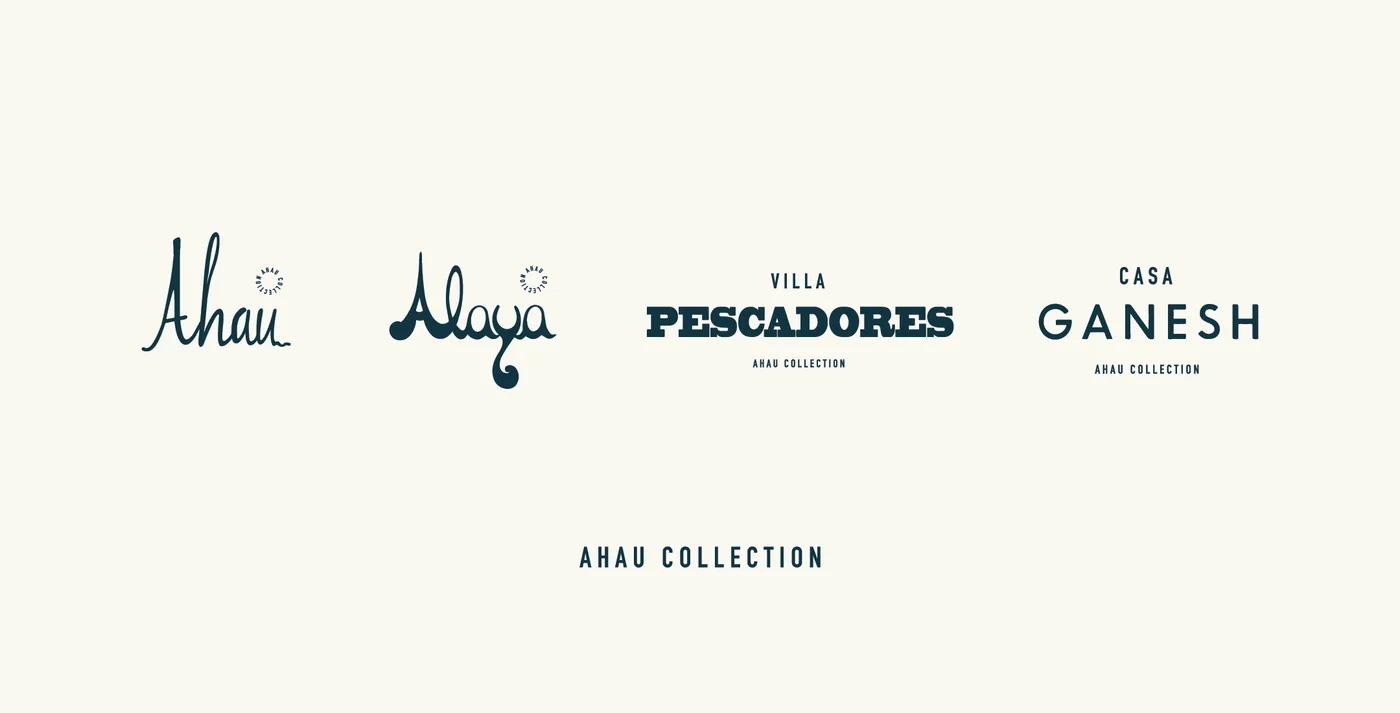
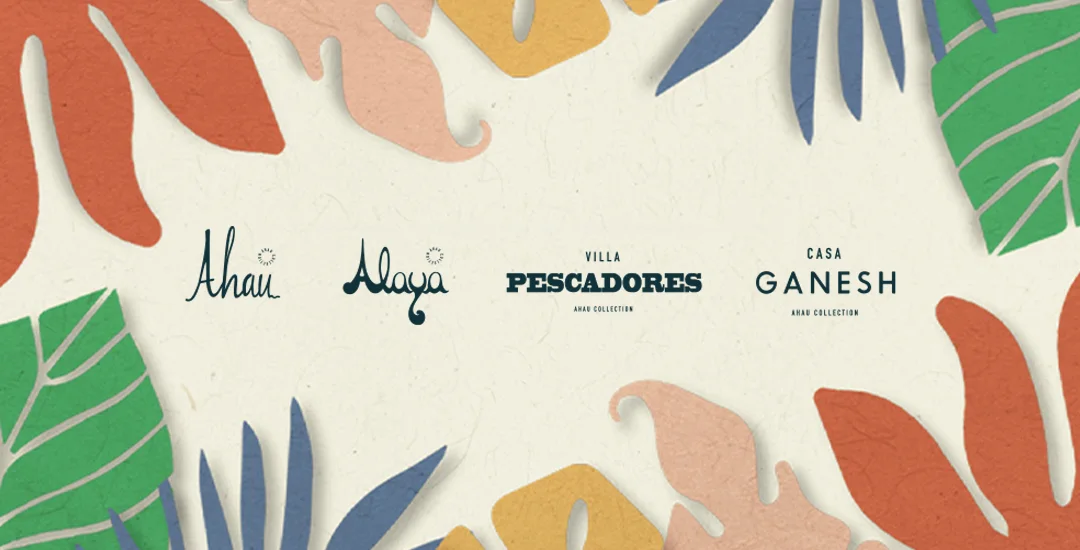
New Ahau and Shmokey images, La Reserva ad carousel EN/ES, K'in Kakaw in Also with square cards, mobile hero opens on the brain, no widows
Claude-Session: https://claude.ai/code/session_016uBSke5t6Q9r2gLAW2ANSA

diff --git a/src/work.js b/src/work.js
@@ -10,25 +10,34 @@ const ALL = [
     id: 'mr-shmokey',
     site: { k: { en: 'Instagram', es: 'Instagram' }, url: 'https://www.instagram.com/mr.shmokey/', text: '@mr.shmokey' },
     name: 'Mr. Shmokey',
-    line: { en: 'Signage that stops the street.', es: 'Letreros que detienen a la calle.' },
-    cover: { src: '/work/cover-shmokey.webp', alt: { en: 'The Mr. Shmokey logo above the coffee board', es: 'El logo de Mr. Shmokey sobre el menú de café' } },
+    line: { en: 'Burgers, signs and menus that stop the street.', es: 'Hamburguesas, letreros y menús que detienen la calle.' },
+    cover: { src: '/work/cover-shmokey.webp', alt: { en: 'The Mr. Shmokey Smokehouse logo over three burgers on a yellow logo pattern', es: 'El logo de Mr. Shmokey Smokehouse sobre tres hamburguesas y un patrón de logos amarillo' } },
     intro: {
-      en: 'Smokehouse and coffee bar in Tulum. The light boxes out front and the coffee board over the counter.',
-      es: 'Smokehouse y coffee bar en Tulum. Las cajas de luz de la entrada y el menú de café sobre la barra.',
+      en: 'Smokehouse and coffee bar in Tulum. The logo, the food photography and the light box menus over the counter.',
+      es: 'Smokehouse y coffee bar en Tulum. El logo, la fotografía de comida y los menús de caja de luz sobre la barra.',
     },
     facts: [
       { k: { en: 'Client', es: 'Cliente' }, v: { en: 'Mr. Shmokey', es: 'Mr. Shmokey' } },
       { k: { en: 'Place', es: 'Lugar' }, v: { en: 'Tulum', es: 'Tulum' } },
-      { k: { en: 'Made', es: 'Hice' }, v: { en: 'Light boxes, street signs and the coffee board', es: 'Cajas de luz, letreros y el menú de café' } },
+      { k: { en: 'Made', es: 'Hice' }, v: { en: 'Logo, food photography, light box and printed menus', es: 'Logo, fotografía de comida, menús de caja de luz e impresos' } },
     ],
     sections: [
       {
-        title: { en: 'The light boxes', es: 'Las cajas de luz' },
-        images: [{ src: '/work/shmokey-lightbox.webp', w: 1800, h: 398, alt: { en: 'Light box with the Mr. Shmokey logo', es: 'Caja de luz con el logo de Mr. Shmokey' } }],
+        images: [{ src: '/work/shmokey-logo-board.webp', w: 1400, h: 713, alt: { en: 'The Mr. Shmokey Smokehouse logo on its logo pattern', es: 'El logo de Mr. Shmokey Smokehouse sobre su patrón de logos' } }],
       },
       {
-        title: { en: 'The coffee board', es: 'El menú de café' },
-        images: [{ src: '/work/shmokey-coffee-board.webp', w: 1800, h: 348, alt: { en: 'Coffee menu board: cold coffees, freddo, iced latte and the classics', es: 'Menú de café: cafés fríos, freddo, iced latte y los clásicos' } }],
+        title: { en: 'The burgers', es: 'Las hamburguesas' },
+        text: { en: 'Two burgers on the logo pattern.', es: 'Dos hamburguesas sobre el patrón del logo.' },
+        cols: 2,
+        images: [
+          { src: '/work/shmokey-burger-1.webp', w: 1000, h: 1000, alt: { en: 'A cheese burger on the Mr. Shmokey logo pattern', es: 'Una hamburguesa con queso sobre el patrón del logo de Mr. Shmokey' } },
+          { src: '/work/shmokey-burger-2.webp', w: 1000, h: 1000, alt: { en: 'A second burger with cheese and onions on the Mr. Shmokey logo pattern', es: 'Otra hamburguesa con queso y cebolla sobre el patrón del logo de Mr. Shmokey' } },
+        ],
+      },
+      {
+        title: { en: 'The menus', es: 'Los menús' },
+        text: { en: 'Light box menus over the counter and printed menus along the bar.', es: 'Menús de caja de luz sobre la barra y menús impresos a lo largo del mostrador.' },
+        images: [{ src: '/work/shmokey-storefront.webp', w: 1800, h: 917, alt: { en: 'The Mr. Shmokey counter at night with the lit menus above and printed menus below', es: 'La barra de Mr. Shmokey de noche con los menús iluminados arriba y los impresos abajo' } }],
       },
     ],
   },
@@ -81,8 +90,8 @@ const ALL = [
     sections: [
       {
         title: { en: 'The system', es: 'El sistema' },
-        text: { en: 'One wordmark over four hotels: Ahau, Alaya, Villa Pescadores and Casa Ganesh.', es: 'Un solo logo sobre cuatro hoteles: Ahau, Alaya, Villa Pescadores y Casa Ganesh.' },
-        images: [{ src: '/work/ahau-brand.webp', w: 1400, h: 713, alt: { en: 'The Ahau Collection wordmark below the logos of Ahau, Alaya, Villa Pescadores and Casa Ganesh', es: 'El logo de Ahau Collection bajo los de Ahau, Alaya, Villa Pescadores y Casa Ganesh' } }],
+        text: { en: 'Four hotels, one family: Ahau, Alaya, Villa Pescadores and Casa\u00a0Ganesh.', es: 'Cuatro hoteles, una familia: Ahau, Alaya, Villa Pescadores y Casa\u00a0Ganesh.' },
+        images: [{ src: '/work/ahau-brand.webp', w: 1080, h: 550, alt: { en: 'The logos of Ahau, Alaya, Villa Pescadores and Casa Ganesh framed by paper-cut leaves', es: 'Los logos de Ahau, Alaya, Villa Pescadores y Casa Ganesh entre hojas de papel recortado' } }],
       },
       {
         title: { en: 'Stories', es: 'Stories' },
@@ -118,6 +127,22 @@ const ALL = [
       },
       {
         title: { en: 'Meta ads', es: 'Anuncios en Meta' },
+        text: { en: 'A five-card carousel for buyers, from the AD México feature to a WhatsApp chat with the sales director.', es: 'Un carrusel de cinco tarjetas para compradores, del reportaje en AD México a un chat de WhatsApp con el director de ventas.' },
+        carousel: {
+          w: 864,
+          h: 1080,
+          slides: [1, 2, 3, 4, 5].map((n) => ({ en: `/work/la-reserva-ad-en-${n}.webp`, es: `/work/la-reserva-ad-es-${n}.webp` })),
+          alts: [
+            { en: 'Card 1: Architectural Digest México called it a refuge, call it home', es: 'Tarjeta 1: Architectural Digest México lo llamó un refugio' },
+            { en: 'Card 2: a collection of 42 residences with the jungle in between', es: 'Tarjeta 2: una colección de 42 residencias con la selva en medio' },
+            { en: 'Card 3: designed by Co-Lab to let the jungle in', es: 'Tarjeta 3: diseñado por Co-Lab para dejar entrar la selva' },
+            { en: 'Card 4: stay before you buy', es: 'Tarjeta 4: quédese antes de comprar' },
+            { en: 'Card 5: Ben, the sales director, with a WhatsApp button', es: 'Tarjeta 5: Ben, el director de ventas, con un botón de WhatsApp' },
+          ],
+        },
+      },
+      {
+        title: { en: 'Referral ads', es: 'Anuncios de referidos' },
         text: { en: 'Ads for the broker referral program.', es: 'Anuncios del programa de referidos para brokers.' },
         images: [{ src: '/work/la-reserva-ads.webp', w: 2056, h: 720, alt: { en: 'Three Meta ads for the La Reserva referral program', es: 'Tres anuncios en Meta del programa de referidos de La Reserva' } }],
       },
@@ -137,7 +162,8 @@ const ALL = [
 export const WORK = ['ahau-collection', 'la-reserva', 'mare', 'mr-shmokey'].map((id) => ALL.find((w) => w.id === id))
 
 export const ALSO = [
-  { src: '/work/petrodex-43.webp', name: 'Petrodex', place: { en: 'Dubai', es: 'Dubái' }, text: { en: 'Investor company profile, printed in A5 and A4.', es: 'Perfil para inversionistas, impreso en A5 y A4.' } },
-  { src: '/work/water-toys-43.webp', name: 'Water Toys Center', place: { en: 'Cannes, Monaco', es: 'Cannes, Mónaco' }, text: { en: 'Boat show backdrops and banners.', es: 'Fondos y banners para salones náuticos.' } },
-  { src: '/work/carmel-43.webp', name: 'Carmel', place: { en: 'Mexico', es: 'México' }, text: { en: 'Press kit for a French music producer and DJ.', es: 'Press kit para un productor musical y DJ francés.' } },
+  { src: '/work/kin-kakaw-11.webp', name: "K'in Kakaw", text: { en: 'Logo for a cacao brand.', es: 'Logo para una marca de cacao.' } },
+  { src: '/work/petrodex-11.webp', name: 'Petrodex', place: { en: 'Dubai', es: 'Dubái' }, text: { en: 'Investor company profile, printed in A5 and A4.', es: 'Perfil para inversionistas, impreso en A5 y A4.' } },
+  { src: '/work/water-toys-11.webp', name: 'Water Toys Center', place: { en: 'Cannes, Monaco', es: 'Cannes, Mónaco' }, text: { en: 'Boat show backdrops and banners.', es: 'Fondos y banners para salones náuticos.' } },
+  { src: '/work/carmel-11.webp', name: 'Carmel', place: { en: 'Mexico', es: 'México' }, text: { en: 'Press kit for a French music producer and DJ.', es: 'Press kit para un productor musical y DJ francés.' } },
 ]

diff --git a/src/index.css b/src/index.css
@@ -17,7 +17,8 @@ h1,h2,h3,p,ol,ul{margin:0}
 ol,ul{padding:0;list-style:none}
 h1,h2{font-family:var(--mono);font-weight:400;letter-spacing:-.03em;text-wrap:balance}
 h3{font-weight:400}
-p{text-wrap:pretty}
+p,li,dd,span,figcaption{text-wrap:pretty}
+.step p,.wc .ln,.also-tx,.wp-line,.wp-sec-hd p,.facts dd,.walk p,.hero-sub,.next-ln,.walk h2,h3{text-wrap:balance}
 :focus-visible{outline:2px solid var(--cyan);outline-offset:3px}
 .wrap{max-width:1280px;margin:0 auto;padding-left:max(16px,env(safe-area-inset-left,0px));padding-right:max(16px,env(safe-area-inset-right,0px))}
 @media (min-width:700px){.wrap{padding-left:max(40px,env(safe-area-inset-left,0px));padding-right:max(40px,env(safe-area-inset-right,0px))}}
@@ -101,6 +102,14 @@ header{position:sticky;top:env(safe-area-inset-top,0px);z-index:40;background:rg
   .map{grid-column:2;grid-row:1;margin-top:var(--map-shift,-10px)}
   .walk{grid-column:2;grid-row:2}
 }
+@media (max-width:959px){
+  /* phones and tablets: open with the brain, then the words, then the free review */
+  .hero{padding-top:12px;gap:28px}
+  .map-box{display:contents}
+  .map{order:-1;width:92%;margin-inline:auto}
+  .map .path{overflow:hidden}
+  .walk{margin-left:0;padding-top:4px}
+}
 @media (max-width:420px){.steps{grid-template-columns:minmax(0,1fr)}}
 
 /* the free fixes: a slim paper band */
@@ -123,10 +132,10 @@ header{position:sticky;top:env(safe-area-inset-top,0px);z-index:40;background:rg
 .cap{font-family:var(--mono);font-size:12px;color:var(--dim)}
 .tag.dim,.dim{color:var(--dim)}
 .also{display:flex;flex-direction:column;gap:20px;padding-top:16px;border-top:1px solid var(--line)}
-.also ul{display:grid;grid-template-columns:minmax(0,1fr);gap:28px}
-@media (min-width:640px){.also ul{grid-template-columns:repeat(3,minmax(0,1fr));gap:32px}}
+.also ul{display:grid;grid-template-columns:repeat(2,minmax(0,1fr));gap:28px 16px}
+@media (min-width:900px){.also ul{grid-template-columns:repeat(4,minmax(0,1fr));gap:32px}}
 .also li{display:flex;flex-direction:column;gap:12px}
-.also img{width:100%;height:auto;aspect-ratio:4/3}
+.also img{width:100%;height:auto;aspect-ratio:1/1;object-fit:cover}
 .also-nm{font-family:var(--mono);font-size:16px}
 .also-nm .dim{font-size:12px}
 .also-tx{font-size:14px;color:var(--muted)}
@@ -235,3 +244,15 @@ header{position:sticky;top:env(safe-area-inset-top,0px);z-index:40;background:rg
 .next:hover .next-nm{text-decoration:underline;text-underline-offset:6px;text-decoration-thickness:1px}
 @media (max-width:699px){.next-ar{display:none}}
 @media (prefers-reduced-motion:reduce){.next-ar,.wc img{transition:none}}
+
+/* ad carousel: cards side by side, snapping like the feed */
+.car{display:flex;flex-direction:column;gap:14px}
+.car-row{display:grid;grid-auto-flow:column;grid-auto-columns:82%;gap:16px;overflow-x:auto;scroll-snap-type:x mandatory;scrollbar-width:none;overscroll-behavior-x:contain}
+.car-row::-webkit-scrollbar{display:none}
+.car-row img{width:100%;height:auto;aspect-ratio:4/5;object-fit:cover;scroll-snap-align:start;display:block}
+@media (min-width:640px){.car-row{grid-auto-columns:calc((100% - 32px) / 3)}}
+@media (min-width:1100px){.car-row{grid-auto-columns:calc((100% - 48px) / 3.4)}}
+.car-nav{display:flex;gap:8px;justify-content:flex-end}
+.car-nav button{background:none;border:1px solid var(--edge);color:var(--ink);font-family:var(--mono);font-size:16px;width:44px;height:44px;cursor:pointer;transition:border-color .15s,color .15s}
+.car-nav button:hover{border-color:var(--cyan);color:var(--cyan)}
+@media (hover:none){.car-nav{display:none}}

diff --git a/src/pages/Work.jsx b/src/pages/Work.jsx
@@ -1,4 +1,4 @@
-import { useEffect } from 'react'
+import { useEffect, useRef } from 'react'
 import { Link, useParams } from 'react-router-dom'
 import { T, useT } from '../lang.jsx'
 import { Footer, Header } from '../components/Chrome.jsx'
@@ -53,13 +53,14 @@ export default function Work() {
                 {s.text && <p>{t(s.text)}</p>}
               </div>
             )}
-            <div className={s.cols ? `shots c${s.cols}` : 'shots'}>
+            {s.carousel && <Carousel c={s.carousel} />}
+            {s.images && <div className={s.cols ? `shots c${s.cols}` : 'shots'}>
               {s.images.map((img) => img.video ? (
                 <video key={img.video} className={img.lead ? 'shot lead' : 'shot'} src={img.video} poster={img.src} width={img.w} height={img.h} aria-label={t(img.alt)} autoPlay muted loop playsInline preload="metadata" />
               ) : (
                 <img key={img.src} className="shot" src={img.src} width={img.w} height={img.h} alt={t(img.alt)} loading={n === 0 ? 'eager' : 'lazy'} decoding="async" />
               ))}
-            </div>
+            </div>}
           </section>
         ))}
 
@@ -77,5 +78,30 @@ export default function Work() {
       </main>
       <Footer cta />
     </>
+  )
+}
+
+/** An ad carousel the way it runs in the feed: swipe on a phone, arrows on a computer. */
+function Carousel({ c }) {
+  const t = useT()
+  const row = useRef(null)
+  const go = (d) => {
+    const el = row.current
+    if (!el) return
+    const card = el.querySelector('img')
+    el.scrollBy({ left: d * (card ? card.offsetWidth + 16 : el.clientWidth), behavior: 'smooth' })
+  }
+  return (
+    <div className="car">
+      <div className="car-row" ref={row} tabIndex="0" aria-label={t({ en: 'Ad carousel, scroll sideways', es: 'Carrusel de anuncios, desplace hacia los lados' })}>
+        {c.slides.map((sl, i) => (
+          <img key={i} src={t(sl)} width={c.w} height={c.h} alt={t(c.alts[i])} loading="lazy" decoding="async" />
+        ))}
+      </div>
+      <div className="car-nav">
+        <button type="button" onClick={() => go(-1)} aria-label={t({ en: 'Previous card', es: 'Tarjeta anterior' })}>←</button>
+        <button type="button" onClick={() => go(1)} aria-label={t({ en: 'Next card', es: 'Tarjeta siguiente' })}>→</button>
+      </div>
+    </div>
   )
 }

diff --git a/src/pages/Home.jsx b/src/pages/Home.jsx
@@ -124,8 +124,8 @@ export default function Home() {
             <ul>
               {ALSO.map((a) => (
                 <li key={a.name}>
-                  <img src={a.src} width="1200" height="900" alt="" loading="lazy" decoding="async" />
-                  <span className="also-nm"><span translate="no">{a.name}</span> <span className="dim">{t(a.place)}</span></span>
+                  <img src={a.src} width="1080" height="1080" alt="" loading="lazy" decoding="async" />
+                  <span className="also-nm"><span translate="no">{a.name}</span>{a.place && <> <span className="dim">{t(a.place)}</span></>}</span>
                   <span className="also-tx">{t(a.text)}</span>
                 </li>
               ))}
